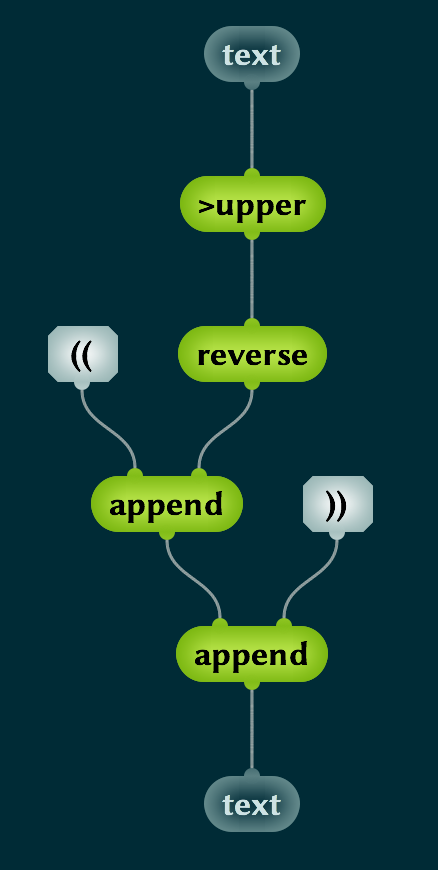
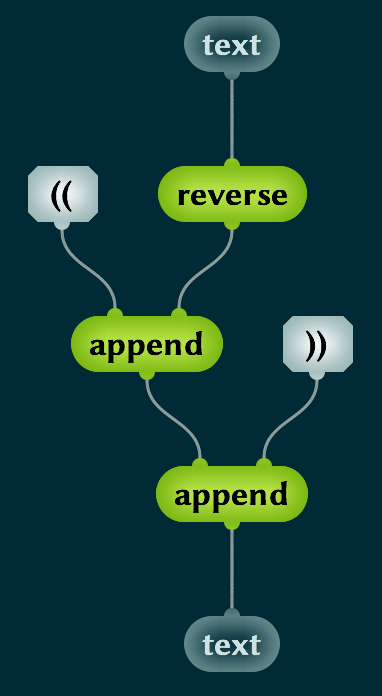
Removed ">upper" in example

Changed region(s): [[0.0576, 0.0, 0.9215, 0.9655]]

diff --git a/fr/index.html b/fr/index.html
@@ -63,15 +63,14 @@ Vous venez de créer un programme qui affiche "Hello world!" à l'écran.
 
 <hr>
 <p>Appuyez sur <key>N</key> pour créer un nouveau mot et appelez-le <word>process text</word>. Appuyez sur <key>I</key> pour insérer une entrée et appelez-la <io>text</io>. Appuyez sur <key>O</key> pour insérer une sortie et appelez-la aussi <io>text</io>. Vous devriez pouvoir reproduire le reste du code facilement.</p>
-<img class="bloc" src="../images/screenshot-process-text.png" height="435">
+<img class="bloc" src="../images/screenshot-process-text.png" height="348">
 <p>Pour entrer du code Skov, vous n'êtes pas obligé d'insérer d'abord toutes les bulles et de les connecter après. Vous pouvez le faire en une seule étape. Si vous placez votre curseur sur un connecteur et que vous appuyez sur <key>W</key>, le nouveau mot sera automatiquement attaché à ce connecteur. Ça permet d'entrer du code Skov presqu'aussi vite que dans les langages de programmation conventionnels.</p>
-<p><word>>upper</word> passe du texte en majuscules.</p>
 <p><word>reverse</word> inverse simplement une séquence (y compris du texte, qui est une séquence de caractères).</p>
 <p><word>append</word> prend deux séquences et les colle ensemble pour faire une seule séquence.</p>
 <p>C'est le premier mot que vous définissez qui a des entrées et des sorties, ce qui veut dire que vous pouvez l'utiliser pour traiter des données. Les mots que vous avez définis avant affichaient juste quelque chose à l'écran. Celui-là n'affiche rien, mais vous pouvez l'utiliser dans un autre mot. Allons-y.</p>
 <p>Définissez un nouveau mot appelé <word>text test</word> et entrez ce code.</p>
 <img class="bloc" src="../images/screenshot-text-test.png" height="218">
-<p>Cliquez sur le bouton de résultat et vous devriez voir "((VOKS))" parce que le texte d'entrée <text>skov</text> a été converti en majuscules, inversé, et des doubles paranthèses ont été ajoutées de chaque côté, comme demandé.</p>
+<p>Cliquez sur le bouton de résultat et vous devriez voir "((voks))" parce que le texte d'entrée <text>skov</text> a été converti en majuscules, inversé, et des doubles paranthèses ont été ajoutées de chaque côté, comme demandé.</p>
 
 <hr>
 <p>Retournez voir <word>process text</word> et voyez avec quelle facilité vous pouvez chainer les opérations. Quand vous regardez du code Skov, vous pouvez imaginer les données couler du haut vers le bas à travers une succession d'opérations, commes si elles étaient attirées par la gravité.</p>

diff --git a/en/index.html b/en/index.html
@@ -63,15 +63,14 @@ You have just created a program that writes "Hello world!" to the screen.
 
 <hr>
 <p>Press <key>N</key> to create a new word and call it <word>process text</word>. Press <key>I</key> to enter an input and call it <io>text</io>. Press <key>O</key> to enter an output and call it <io>text</io> also. You should be able to reproduce the rest of the code easily.</p>
-<img class="bloc" src="../images/screenshot-process-text.png" height="435">
+<img class="bloc" src="../images/screenshot-process-text.png" height="348">
 <p>To enter Skov code, you don't actually have to first enter all the nodes and then connect them together. You can do it in one step. If you place your cursor on a connector and press <key>W</key>, the new word will be linked to this connector automatically. This allows you to enter Skov code almost as fast as in conventional programming languages.</p>
-<p><word>>upper</word> converts some text to upper case.</p>
 <p><word>reverse</word> simply reverses a sequence (including text, which is a sequence of characters).</p>
 <p><word>append</word> takes two sequences and sticks them together in one sequence.</p>
 <p>This is the first word you define that has inputs and outputs, which means you can use it to process data. The previous words you defined just displayed something on the screen. This one doesn't display anything, but you can use it in another word. Let's do it.</p>
 <p>Define a new word called <word>text test</word> and enter this code.</p>
 <img class="bloc" src="../images/screenshot-text-test.png" height="218">
-<p>Click the result button and you should see "((VOKS))" because the input text <text>skov</text> was converted to upper case, reversed, and double parentheses were added on either side, as requested.</p>
+<p>Click the result button and you should see "((voks))" because the input text <text>skov</text> was converted to upper case, reversed, and double parentheses were added on either side, as requested.</p>
 
 <hr>
 <p>Look back at <word>process text</word> and see how easily you can chain operations. When you look at Skov code, you can imagine data flowing from top to bottom through a chain of operations, as if data was attracted by gravity.</p>
